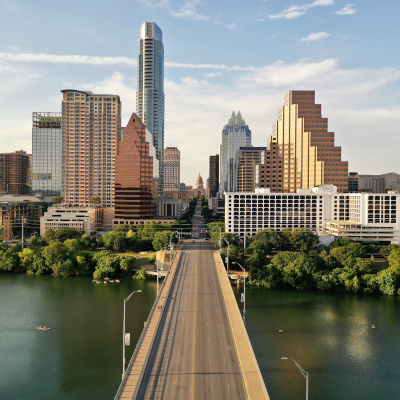
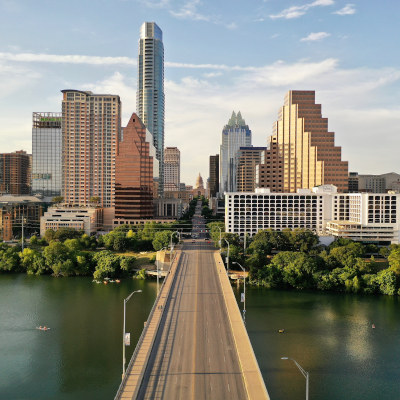
Tune page titles and meta
- Resize images for better load times.

diff --git a/index.html b/index.html
@@ -2,14 +2,18 @@
 <html lang="en">
   <head>
     <meta charset="utf-8" />
-    <title>
-      OwnMFA: MFA/2FA APIs - Secure logins without giving up control of your
-      accounts or authentication
-    </title>
+    <title>MFA / 2FA as a Service | OwnMFA</title>
+    <meta
+      name="description"
+      content="Add Multi-Factor Authentication to any product without giving up control of your accounts or authentication. OwnMFA APIs make it easy to integrate MFA and 2FA authentication methods quickly."
+    />
+    <meta
+      name="keywords"
+      content="MFA, 2FA, multi-factor authentication, two-factor authentication, API, API as a Service, SMS, Email, HOTP, TOTP, Google Authenticator"
+    />
     <link rel="stylesheet" href="/assets/css/base.css" />
     <link rel="shortcut icon" href="/assets/img/favicon.png" />
   </head>
-
   <body>
     <div class="navbar">
       <div class="navbar-inner">

diff --git a/features/index.html b/features/index.html
@@ -2,10 +2,15 @@
 <html lang="en">
   <head>
     <meta charset="utf-8" />
-    <title>
-      OwnMFA: MFA/2FA APIs - Secure logins without giving up control of your
-      accounts or authentication
-    </title>
+    <title>Features | OwnMFA</title>
+    <meta
+      name="description"
+      content="Features, Authentication Methods, and Benefits of the OwnMFA MFA / 2FA as a Service platform."
+    />
+    <meta
+      name="keywords"
+      content="MFA, 2FA, multi-factor authentication, two-factor authentication, API, API as a Service, SMS, Email, HOTP, TOTP, Google Authenticator, Features, Authentication Methods, Benefits"
+    />
     <link rel="stylesheet" href="/assets/css/base.css" />
     <link rel="shortcut icon" href="/assets/img/favicon.png" />
   </head>

diff --git a/pricing/index.html b/pricing/index.html
@@ -2,14 +2,18 @@
 <html lang="en">
   <head>
     <meta charset="utf-8" />
-    <title>
-      OwnMFA: MFA/2FA APIs - Secure logins without giving up control of your
-      accounts or authentication
-    </title>
+    <title>Pricing | OwnMFA</title>
+    <meta
+      name="description"
+      content="Pricing of the OwnMFA MFA / 2FA as a Service platform."
+    />
+    <meta
+      name="keywords"
+      content="MFA, 2FA, multi-factor authentication, two-factor authentication, API, API as a Service, SMS, Email, HOTP, TOTP, Google Authenticator, Pricing"
+    />
     <link rel="stylesheet" href="/assets/css/base.css" />
     <link rel="shortcut icon" href="/assets/img/favicon.png" />
   </head>
-
   <body>
     <div class="navbar">
       <div class="navbar-inner">

diff --git a/about/index.html b/about/index.html
@@ -2,14 +2,18 @@
 <html lang="en">
   <head>
     <meta charset="utf-8" />
-    <title>
-      OwnMFA: MFA/2FA APIs - Secure logins without giving up control of your
-      accounts or authentication
-    </title>
+    <title>About | OwnMFA</title>
+    <meta
+      name="description"
+      content="About the OwnMFA team, headquartered in Austin, Texas."
+    />
+    <meta
+      name="keywords"
+      content="MFA, 2FA, multi-factor authentication, two-factor authentication, API, API as a Service, SMS, Email, HOTP, TOTP, Google Authenticator, About Us"
+    />
     <link rel="stylesheet" href="/assets/css/base.css" />
     <link rel="shortcut icon" href="/assets/img/favicon.png" />
   </head>
-
   <body>
     <div class="navbar">
       <div class="navbar-inner">

diff --git a/terms/index.html b/terms/index.html
@@ -2,10 +2,15 @@
 <html lang="en">
   <head>
     <meta charset="utf-8" />
-    <title>
-      OwnMFA: MFA/2FA APIs - Secure logins without giving up control of your
-      accounts or authentication
-    </title>
+    <title>Terms of Service | OwnMFA</title>
+    <meta
+      name="description"
+      content="Terms of Service of the OwnMFA MFA / 2FA as a Service platform."
+    />
+    <meta
+      name="keywords"
+      content="MFA, 2FA, multi-factor authentication, two-factor authentication, API, API as a Service, SMS, Email, HOTP, TOTP, Google Authenticator, Terms of Service"
+    />
     <link rel="stylesheet" href="/assets/css/base.css" />
     <link rel="shortcut icon" href="/assets/img/favicon.png" />
   </head>

diff --git a/privacy/index.html b/privacy/index.html
@@ -2,10 +2,15 @@
 <html lang="en">
   <head>
     <meta charset="utf-8" />
-    <title>
-      OwnMFA: MFA/2FA APIs - Secure logins without giving up control of your
-      accounts or authentication
-    </title>
+    <title>Privacy Policy | OwnMFA</title>
+    <meta
+      name="description"
+      content="Privacy Policy of the OwnMFA MFA / 2FA as a Service platform."
+    />
+    <meta
+      name="keywords"
+      content="MFA, 2FA, multi-factor authentication, two-factor authentication, API, API as a Service, SMS, Email, HOTP, TOTP, Google Authenticator, Privacy Policy"
+    />
     <link rel="stylesheet" href="/assets/css/base.css" />
     <link rel="shortcut icon" href="/assets/img/favicon.png" />
   </head>
